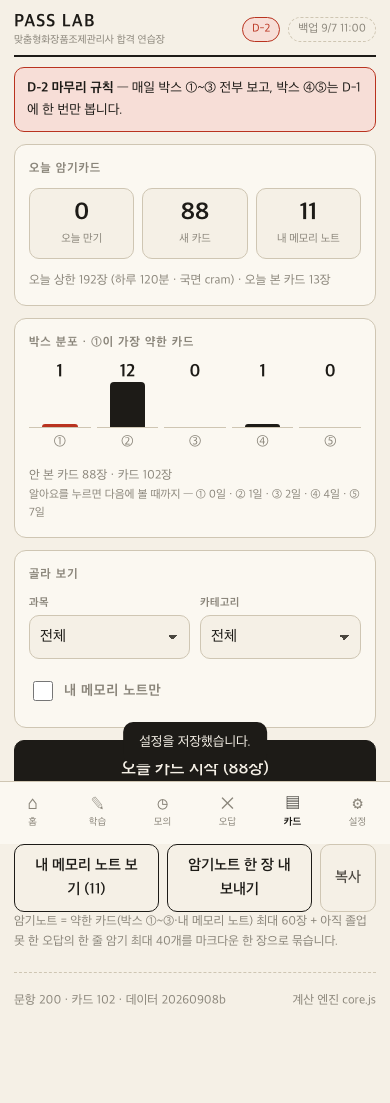
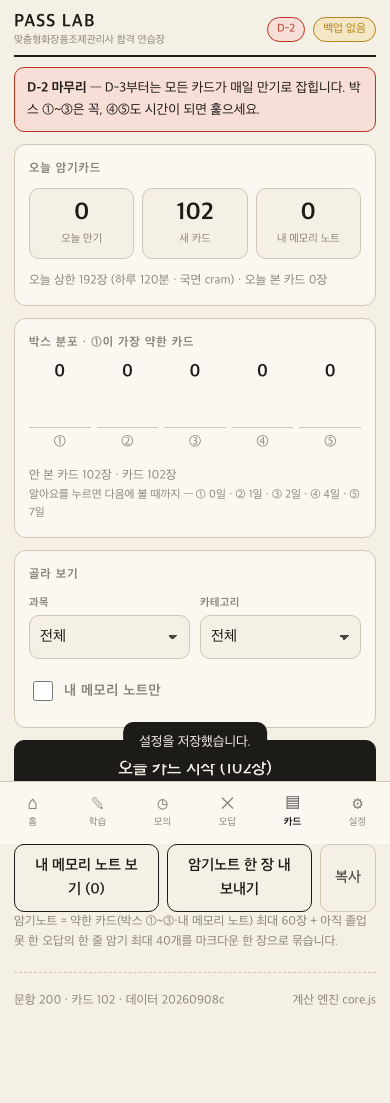
fix(ui): doReset 메모리 세션 정리, D-3 배너 조건·문구, 카드 뒤집기 키보드 (S4 Task 2 fix 1)
Claude-Session: https://claude.ai/code/session_01CnBEBW6G31ZJNJge7BQ6ck

diff --git a/app/app.js b/app/app.js
@@ -1916,10 +1916,10 @@ function viewCardsHome() {
            '<p class="small">카드 데이터를 읽지 못했습니다. app/data 폴더와 manifest.js를 확인해 주세요.</p></div>';
   }
 
-  // D-3부터 마무리 규칙
-  if (dd != null && dd <= 3) {
-    h += '<div class="banner red"><span><b>' + esc(ddayText(dd)) + ' 마무리 규칙</b> — 매일 박스 ①~③ 전부 보고, ' +
-         '박스 ④⑤는 D-1에 한 번만 봅니다.</span></div>';
+  // D-3부터 마무리 규칙 (시험이 지난 뒤에는 띄우지 않는다)
+  if (dd != null && dd >= 0 && dd <= 3) {
+    h += '<div class="banner red"><span><b>' + esc(ddayText(dd)) + ' 마무리</b> — D-3부터는 모든 카드가 매일 ' +
+         '만기로 잡힙니다. 박스 ①~③은 꼭, ④⑤도 시간이 되면 훑으세요.</span></div>';
   }
 
   // 오늘 요약
@@ -2808,7 +2808,13 @@ function applyMerge() {
 function doReset() {
   KEYS.forEach(function (k) { Store.del(k); });
   loadState();
+  // 메모리에 남은 세션까지 모두 비운다 — 안 비우면 카드 세션이 살아남아
+  // [알아요] 한 번에 방금 지운 pl.v1.cards가 되살아난다.
   S.quiz = null; S.diagResult = null; S.summary = null; S.dataCheck = null;
+  S.cardRun = null; S.mockResult = null; S.mockPlans = null;
+  S.importPreview = null; S.importStage = 0;
+  S.openMistake = null; S.cardListOpen = false; S.claudeText = null;
+  stopMockTimer();
   S.resetStage = 0;
   S.screen = "home";
   toast("모두 지웠습니다. 처음 상태입니다.");
@@ -3152,7 +3158,20 @@ function onInput(e) {
 
 function onKeydown(e) {
   var t = e.target;
-  if (!t || !t.classList || !t.classList.contains("shortin")) return;
+  if (!t || !t.classList) return;
+  // 카드 앞면(role="button")은 엔터·스페이스로도 뒤집힌다
+  if (t.classList.contains("cardface")) {
+    if (e.key !== "Enter" && e.key !== " " && e.key !== "Spacebar" &&
+        e.keyCode !== 13 && e.keyCode !== 32) return;
+    e.preventDefault();
+    if (ACTIONS["card-flip"]) {
+      ACTIONS["card-flip"](t, e);
+      var face = document.querySelector("#main .cardface");   // 다시 그린 뒤에도 초점을 카드에 둔다
+      if (face) face.focus();
+    }
+    return;
+  }
+  if (!t.classList.contains("shortin")) return;
   if (e.isComposing || e.keyCode === 229) return;           // 한글 조합 중이면 무시
   if (e.key !== "Enter" && e.keyCode !== 13) return;
   e.preventDefault();
